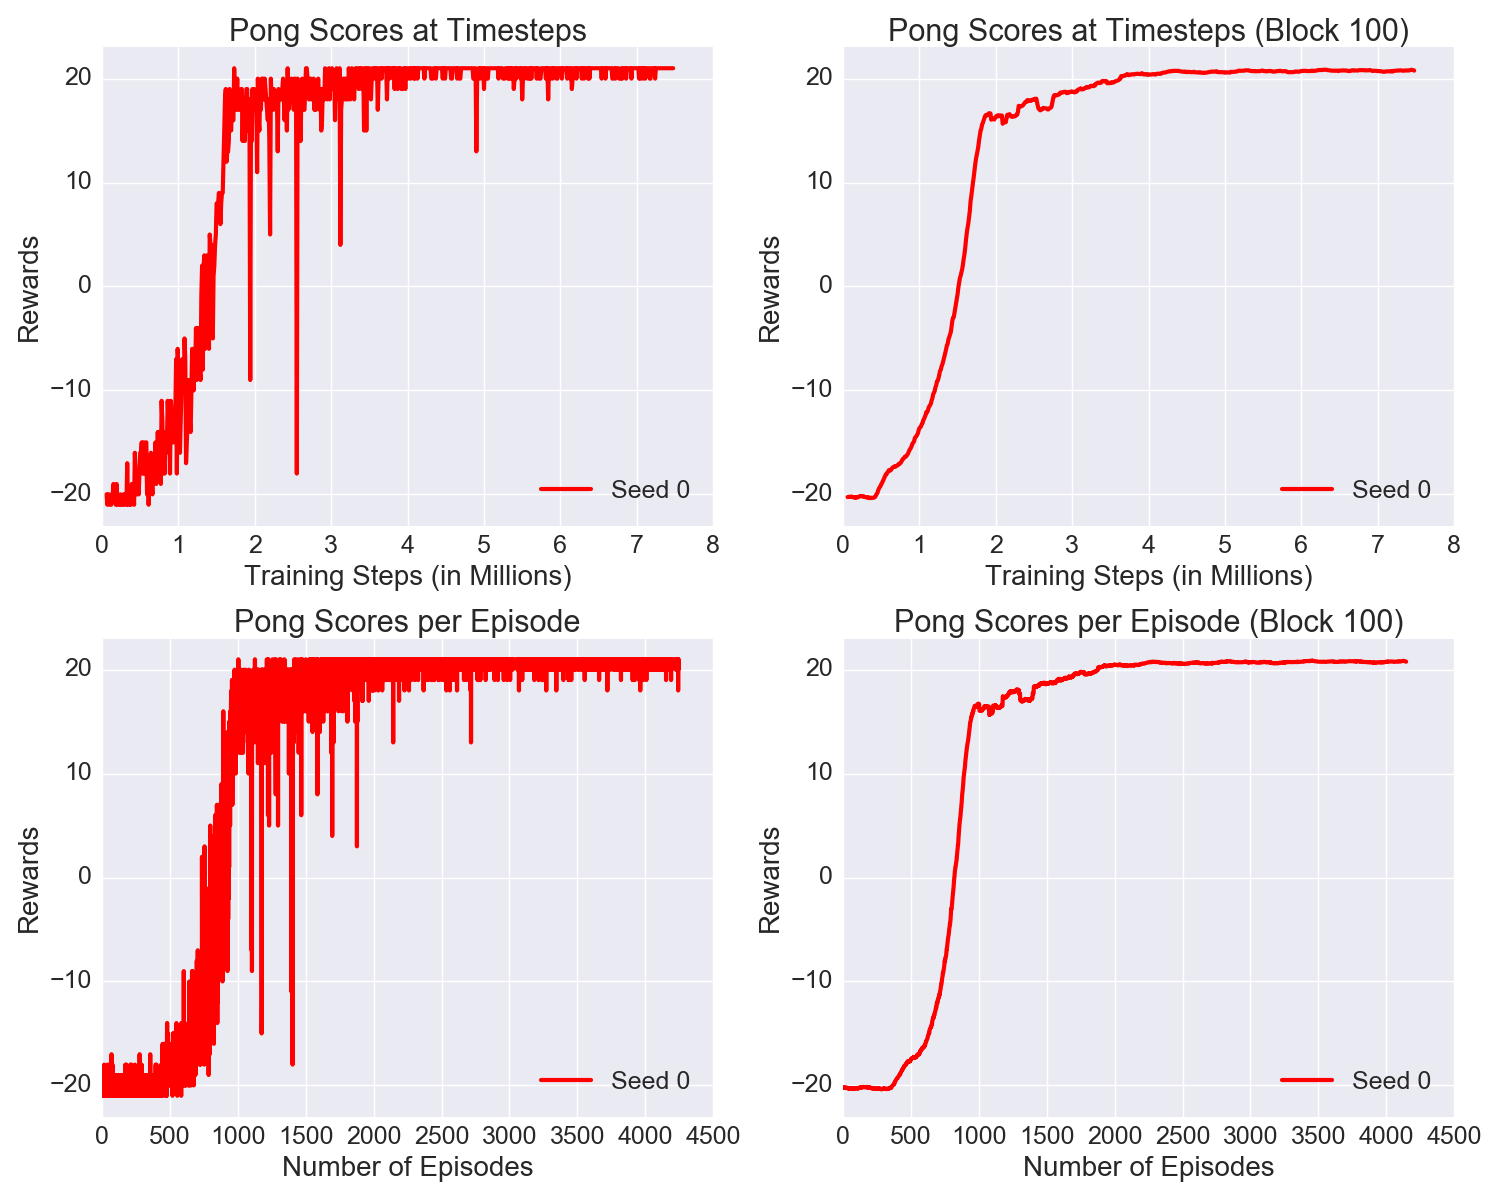
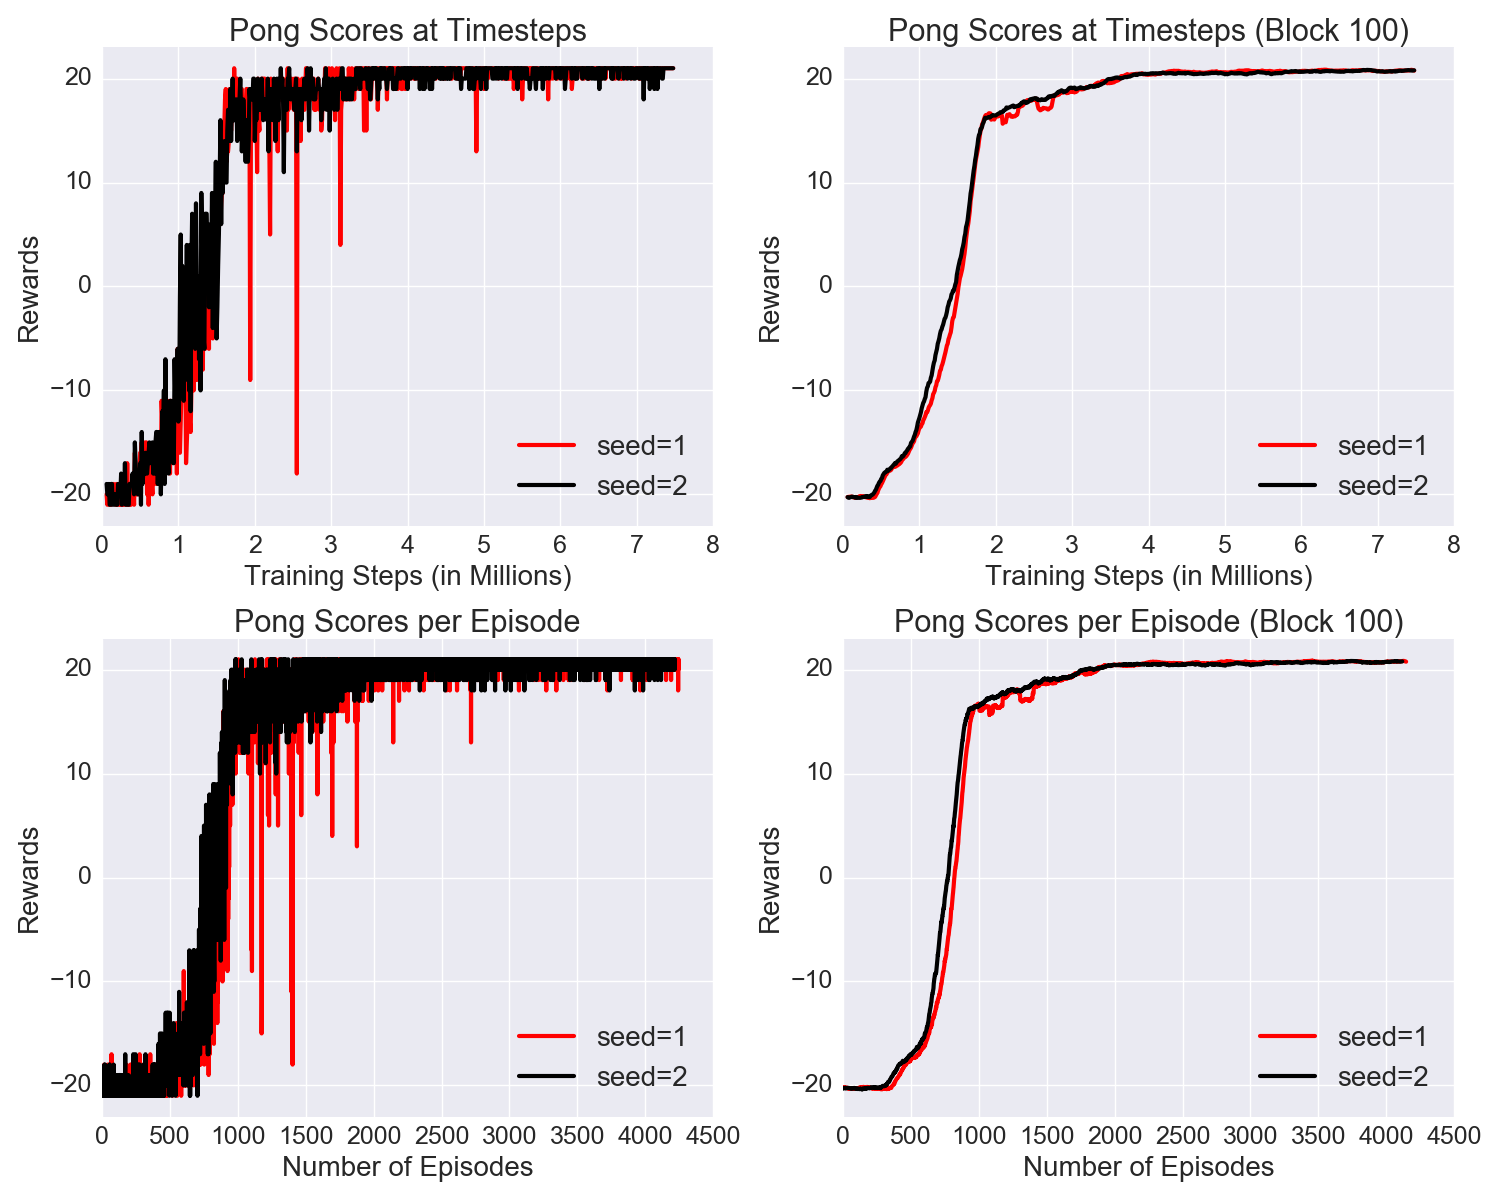
Added Pong, second seed. Results look similar.

diff --git a/dqn/plot_dqn.py b/dqn/plot_dqn.py
@@ -13,7 +13,7 @@ FIGDIR = 'figures/'
 title_size = 22
 axis_size = 20
 tick_size = 18
-legend_size = 18
+legend_size = 20
 lw = 3
 
 def smoothed_block(x, n):
@@ -31,30 +31,47 @@ def smoothed_block(x, n):
 ########
 
 name = "Pong"
-with open(LOGDIR+'Pong_s001.pkl', 'rb') as f:
-    pong_data = np.array(pickle.load(f))
-    pong_eps = np.array(pickle.load(f))
-pong_data      = np.maximum(pong_data, -21)
-pong_t         = (pong_data[:,0]) / 1000000.0
-pong_mean      = pong_data[:,1]
-pong_best_mean = pong_data[:,2]
-pong_ep        = pong_data[:,3]
-pong_eps_sm    = smoothed_block(pong_eps, 100)
-
 fig, axarr = plt.subplots(2,2, figsize=(15,12))
-axarr[0,0].set_title(name+ " Scores at Timesteps", fontsize=title_size)
-axarr[0,1].set_title(name+ " Scores at Timesteps (Block 100)", fontsize=title_size)
-axarr[0,0].plot(pong_t, pong_ep, c='red', lw=lw, label='Seed 0')
-axarr[0,1].plot(pong_t, pong_mean, c='red', lw=lw, label='Seed 0')
-axarr[0,0].set_xlabel("Training Steps (in Millions)", fontsize=axis_size)
-axarr[0,1].set_xlabel("Training Steps (in Millions)", fontsize=axis_size)
 
-axarr[1,0].set_title(name+ " Scores per Episode", fontsize=title_size)
-axarr[1,1].set_title(name+ " Scores per Episode (Block 100)", fontsize=title_size)
-axarr[1,0].plot(pong_eps, c='red', lw=lw, label='Seed 0')
-axarr[1,1].plot(pong_eps_sm, c='red', lw=lw, label='Seed 0')
-axarr[1,0].set_xlabel("Number of Episodes", fontsize=axis_size)
-axarr[1,1].set_xlabel("Number of Episodes", fontsize=axis_size)
+pong_data = []
+pong_eps = []
+pong_t = []
+pong_mean = []
+pong_best_mean = []
+pong_ep = []
+pong_eps_sm = []
+pong_colors = ['red','black']
+pong_labels = ['seed=1','seed=2']
+
+for i in range(0,2):
+    index_str = str(i+1)
+    with open(LOGDIR+'Pong_s00'+index_str+'.pkl', 'rb') as f:
+        pong_data.append( np.array(pickle.load(f)) )
+        pong_eps.append( np.array(pickle.load(f)) )
+    pong_data[i] = np.maximum(pong_data[i], -21)
+    pong_t.append((pong_data[i][:,0]) / 1000000.0)
+    pong_mean.append(pong_data[i][:,1])
+    pong_best_mean.append(pong_data[i][:,2])
+    pong_ep.append(pong_data[i][:,3])
+    pong_eps_sm.append(smoothed_block(pong_eps[i], 100))
+
+    axarr[0,0].set_title(name+ " Scores at Timesteps", fontsize=title_size)
+    axarr[0,1].set_title(name+ " Scores at Timesteps (Block 100)", fontsize=title_size)
+    axarr[0,0].plot(pong_t[i], pong_ep[i], c=pong_colors[i], lw=lw,
+                    label=pong_labels[i])
+    axarr[0,1].plot(pong_t[i], pong_mean[i], c=pong_colors[i], lw=lw, 
+                    label=pong_labels[i])
+    axarr[0,0].set_xlabel("Training Steps (in Millions)", fontsize=axis_size)
+    axarr[0,1].set_xlabel("Training Steps (in Millions)", fontsize=axis_size)
+    
+    axarr[1,0].set_title(name+ " Scores per Episode", fontsize=title_size)
+    axarr[1,1].set_title(name+ " Scores per Episode (Block 100)", fontsize=title_size)
+    axarr[1,0].plot(pong_eps[i], c=pong_colors[i], lw=lw, 
+                    label=pong_labels[i])
+    axarr[1,1].plot(pong_eps_sm[i], c=pong_colors[i], lw=lw, 
+                    label=pong_labels[i])
+    axarr[1,0].set_xlabel("Number of Episodes", fontsize=axis_size)
+    axarr[1,1].set_xlabel("Number of Episodes", fontsize=axis_size)
 
 for i in range(2):
     for j in range(2):

diff --git a/dqn/README.md b/dqn/README.md
@@ -64,10 +64,11 @@ Notes:
 
 ## Pong
 
-Command:
+Commands:
 
 ```
 python run_dqn_atari.py --game Pong --seed 1 --num_timesteps 30000000 | tee logs_text/Pong_s001.text
+python run_dqn_atari.py --game Pong --seed 2 --num_timesteps 30000000 | tee logs_text/Pong_s002.text
 ```
 
 - `num_timesteps`: 30 million
